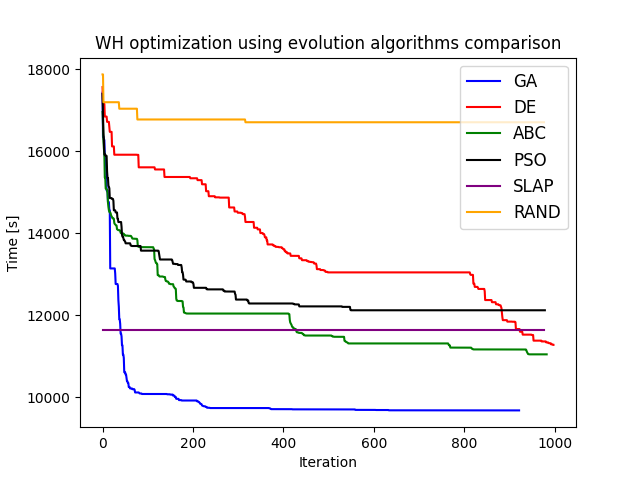
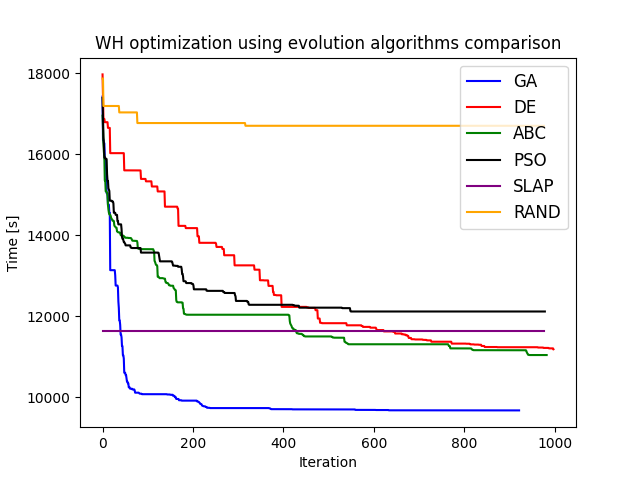
Plot update

diff --git a/utils/plotTool.py b/utils/plotTool.py
@@ -8,7 +8,7 @@ ga = [17422.3, 16349.5, 16349.5, 16272, 16272, 15869, 15869, 15869, 15584.5, 150
 ga_r = range(0, 922)
 ax.plot(ga_r, ga, label='GA', color='blue')
 
-de = [17559.3, 17152.1, 17152.1, 17152.1, 17152.1, 16841.1, 16841.1, 16841.1, 16841.1, 16841.1, 16712.2, 16712.2, 16712.2, 16712.2, 16712.2, 16592.7, 16468.5, 16468.5, 16468.5, 16468.5, 16468.5, 16113.4, 16113.4, 16113.4, 16113.4, 16113.4, 15910.9, 15910.9, 15910.9, 15910.9, 15910.9, 15910.9, 15910.9, 15910.9, 15910.9, 15910.9, 15910.9, 15910.9, 15910.9, 15910.9, 15910.9, 15910.9, 15910.9, 15910.9, 15910.9, 15910.9, 15910.9, 15910.9, 15910.9, 15910.9, 15910.9, 15910.9, 15910.9, 15910.9, 15910.9, 15910.9, 15910.9, 15910.9, 15910.9, 15910.9, 15910.9, 15910.9, 15910.9, 15910.9, 15910.9, 15910.9, 15910.9, 15910.9, 15910.9, 15910.9, 15910.9, 15910.9, 15910.9, 15910.9, 15910.9, 15910.9, 15907.9, 15907.9, 15907.9, 15907.9, 15603.6, 15603.6, 15603.6, 15603.6, 15603.6, 15603.6, 15603.6, 15603.6, 15603.6, 15603.6, 15603.6, 15603.6, 15603.6, 15603.6, 15603.6, 15603.6, 15603.6, 15603.6, 15603.6, 15603.6, 15603.6, 15603.6, 15603.6, 15603.6, 15603.6, 15603.6, 15603.6, 15603.6, 15603.6, 15603.6, 15603.6, 15603.6, 15603.6, 15603.6, 15603.6, 15603.6, 15551.6, 15551.6, 15551.6, 15551.6, 15551.6, 15551.6, 15551.6, 15551.6, 15551.6, 15551.6, 15551.6, 15551.6, 15551.6, 15551.6, 15551.6, 15551.6, 15551.6, 15551.6, 15551.6, 15551.6, 15551.6, 15368, 15368, 15368, 15368, 15368, 15368, 15368, 15368, 15368, 15368, 15368, 15368, 15368, 15368, 15368, 15368, 15368, 15368, 15368, 15368, 15368, 15368, 15368, 15368, 15368, 15368, 15368, 15368, 15368, 15368, 15368, 15368, 15368, 15368, 15368, 15368, 15368, 15368, 15368, 15368, 15368, 15368, 15368, 15368, 15368, 15368, 15368, 15368, 15368, 15368, 15368, 15368, 15368, 15368, 15368, 15368, 15368, 15336.6, 15336.6, 15336.6, 15336.6, 15336.6, 15336.6, 15336.6, 15336.6, 15336.6, 15336.6, 15336.6, 15336.6, 15336.6, 15336.6, 15336.6, 15336.6, 15291.2, 15291.2, 15291.2, 15291.2, 15291.2, 15291.2, 15291.2, 15291.2, 15291.2, 15291.2, 15190.2, 15190.2, 15190.2, 15190.2, 15190.2, 15190.2, 15190.2, 15190.2, 15190.2, 15021.1, 15021.1, 15021.1, 15021.1, 15021.1, 15021.1, 14899, 14899, 14899, 14899, 14899, 14899, 14899, 14899, 14899, 14899, 14899, 14899, 14899, 14899, 14871.9, 14871.9, 14871.9, 14871.9, 14871.9, 14871.9, 14871.9, 14871.9, 14871.9, 14871.9, 14865.2, 14865.2, 14865.2, 14865.2, 14865.2, 14865.2, 14865.2, 14865.2, 14865.2, 14865.2, 14865.2, 14865.2, 14865.2, 14865.2, 14865.2, 14865.2, 14865.2, 14865.2, 14865.2, 14865.2, 14865.2, 14624.9, 14624.9, 14624.9, 14624.9, 14624.9, 14624.9, 14624.9, 14624.9, 14624.9, 14624.9, 14624.9, 14624.9, 14526.7, 14526.7, 14526.7, 14526.7, 14526.7, 14526.7, 14526.7, 14496.7, 14496.7, 14496.7, 14496.7, 14496.7, 14496.7, 14496.7, 14496.7, 14487.4, 14487.4, 14487.4, 14462.2, 14462.2, 14462.2, 14462.2, 14462.2, 14396.6, 14270.8, 14270.8, 14270.8, 14270.8, 14270.8, 14270.8, 14270.8, 14270.8, 14270.8, 14270.8, 14270.8, 14270.8, 14270.8, 14270.8, 14270.8, 14270.8, 14270.8, 14270.8, 14270.8, 14130, 14130, 14130, 14130, 14130, 14130, 14130, 14130, 14090.9, 14090.9, 14090.9, 14090.9, 14090.9, 14090.9, 14000.8, 14000.8, 14000.8, 14000.8, 14000.8, 14000.8, 13977.4, 13977.4, 13977.4, 13952.3, 13897.4, 13897.4, 13897.4, 13897.4, 13823.5, 13823.5, 13723.3, 13723.3, 13723.3, 13723.3, 13723.3, 13723.3, 13723.3, 13723.3, 13723.3, 13723.3, 13723.3, 13723.3, 13701.9, 13701.9, 13701.9, 13682.7, 13682.7, 13682.7, 13665.2, 13665.2, 13662.5, 13662.5, 13662.5, 13662.5, 13662.5, 13654.7, 13654.7, 13654.7, 13654.7, 13654.7, 13654.7, 13654.7, 13632.3, 13632.3, 13617.7, 13605, 13605, 13605, 13557, 13553.9, 13553.9, 13532.2, 13532.2, 13532.2, 13503.9, 13503.9, 13503.9, 13503.9, 13503.9, 13503.9, 13503.9, 13445.8, 13445.8, 13445.8, 13445.8, 13445.8, 13445.8, 13445.8, 13445.8, 13445.8, 13445.8, 13445.8, 13445.8, 13445.8, 13445.8, 13445.8, 13445.8, 13445.8, 13444, 13444, 13385.3, 13385.3, 13385.3, 13385.3, 13385.3, 13381.3, 13339.1, 13339.1, 13339.1, 13339.1, 13339.1, 13339.1, 13339.1, 13339.1, 13339.1, 13339.1, 13339.1, 13320.6, 13320.6, 13320.6, 13303.4, 13303.4, 13303.4, 13303.4, 13295.8, 13295.8, 13295.8, 13295.8, 13290.6, 13290.6, 13290, 13290, 13285, 13256.5, 13256.5, 13256.5, 13256.5, 13256.5, 13216.5, 13120.9, 13120.9, 13120.9, 13120.9, 13120.9, 13120.9, 13120.9, 13120.9, 13099.7, 13099.7, 13099.7, 13099.7, 13099.7, 13099.7, 13099.7, 13090.4, 13090.4, 13090.4, 13079.4, 13055.2, 13055.2, 13055.2, 13055.2, 13055.2, 13041.9, 13041.9, 13041.9, 13041.9, 13041.9, 13041.9, 13041.9, 13041.9, 13041.9, 13041.9, 13041.9, 13041.9, 13041.9, 13041.9, 13041.9, 13041.9, 13041.9, 13041.9, 13041.9, 13041.9, 13041.9, 13041.9, 13041.9, 13041.9, 13041.9, 13041.9, 13041.9, 13041.9, 13041.9, 13041.9, 13041.9, 13041.9, 13041.9, 13041.9, 13041.9, 13041.9, 13041.9, 13041.9, 13041.9, 13041.9, 13041.9, 13041.9, 13041.9, 13041.9, 13041.9, 13041.9, 13041.9, 13041.9, 13041.9, 13041.9, 13041.9, 13041.9, 13041.9, 13041.9, 13041.9, 13041.9, 13041.9, 13041.9, 13041.9, 13041.9, 13041.9, 13041.9, 13041.9, 13041.9, 13041.9, 13041.9, 13041.9, 13041.9, 13041.9, 13041.9, 13041.9, 13041.9, 13041.9, 13041.9, 13041.9, 13041.9, 13041.9, 13041.9, 13041.9, 13041.9, 13041.9, 13041.9, 13041.9, 13041.9, 13041.9, 13041.9, 13041.9, 13041.9, 13041.9, 13041.9, 13041.9, 13041.9, 13041.9, 13041.9, 13041.9, 13041.9, 13041.9, 13041.9, 13041.9, 13041.9, 13041.9, 13041.9, 13041.9, 13041.9, 13041.9, 13041.9, 13041.9, 13041.9, 13041.9, 13041.9, 13041.9, 13041.9, 13041.9, 13041.9, 13041.9, 13041.9, 13041.9, 13041.9, 13041.9, 13041.9, 13041.9, 13041.9, 13041.9, 13041.9, 13041.9, 13041.9, 13041.9, 13041.9, 13041.9, 13041.9, 13041.9, 13041.9, 13041.9, 13041.9, 13041.9, 13041.9, 13041.9, 13041.9, 13041.9, 13041.9, 13041.9, 13041.9, 13041.9, 13041.9, 13041.9, 13041.9, 13041.9, 13041.9, 13041.9, 13041.9, 13041.9, 13041.9, 13041.9, 13041.9, 13041.9, 13041.9, 13041.9, 13041.9, 13041.9, 13041.9, 13041.9, 13041.9, 13041.9, 13041.9, 13041.9, 13041.9, 13041.9, 13041.9, 13041.9, 13041.9, 13041.9, 13041.9, 13041.9, 13041.9, 13041.9, 13041.9, 13041.9, 13041.9, 13041.9, 13041.9, 13041.9, 13041.9, 13041.9, 13041.9, 13041.9, 13041.9, 13041.9, 13041.9, 13041.9, 13041.9, 13041.9, 13041.9, 13041.9, 13041.9, 13041.9, 13041.9, 13041.9, 13041.9, 13041.9, 13041.9, 13041.9, 13041.9, 13041.9, 13041.9, 13041.9, 13041.9, 13041.9, 13041.9, 13041.9, 13041.9, 13041.9, 13041.9, 13041.9, 13041.9, 13041.9, 13041.9, 13041.9, 13041.9, 13041.9, 13041.9, 13041.9, 13041.9, 13041.9, 13041.9, 13041.9, 13041.9, 13041.9, 13041.9, 13041.9, 13041.9, 13041.9, 13041.9, 13041.9, 13041.9, 13041.9, 13041.9, 13041.9, 13041.9, 13041.9, 13041.9, 13041.9, 13041.9, 13041.9, 13041.9, 13041.9, 13041.9, 13041.9, 13041.9, 13041.9, 13041.9, 13041.9, 13041.9, 13041.9, 13041.9, 13041.9, 13041.9, 13041.9, 13041.9, 13041.9, 13041.9, 13041.9, 13041.9, 13041.9, 13041.9, 13041.9, 13041.9, 13041.9, 13041.9, 13041.9, 13041.9, 13041.9, 13041.9, 13041.9, 13041.9, 13041.9, 13041.9, 13041.9, 13041.9, 13041.9, 13041.9, 13041.9, 13041.9, 13041.9, 13041.9, 13041.9, 13041.9, 13041.9, 13041.9, 13041.9, 13041.9, 13041.9, 13041.9, 13041.9, 13041.9, 13041.9, 13041.9, 13041.9, 13041.9, 13041.9, 13041.9, 13041.9, 13041.9, 13041.9, 13041.9, 13041.9, 13041.9, 13041.9, 13041.9, 13041.9, 13041.9, 13041.9, 13041.9, 13041.9, 13041.9, 13041.9, 12994.2, 12981.3, 12981.3, 12981.3, 12981.3, 12981.3, 12981.3, 12766.8, 12766.8, 12766.8, 12688.5, 12688.5, 12688.5, 12688.5, 12688.5, 12688.5, 12688.5, 12667.8, 12638.3, 12638.3, 12638.3, 12638.3, 12638.3, 12638.3, 12638.3, 12638.3, 12638.3, 12638.3, 12638.3, 12638.3, 12638.3, 12638.3, 12581.8, 12367.4, 12367.4, 12367.4, 12367.4, 12367.4, 12367.4, 12367.4, 12367.4, 12367.4, 12367.4, 12367.4, 12367.4, 12367.4, 12367.4, 12367.4, 12315.1, 12315.1, 12315.1, 12315.1, 12315.1, 12315.1, 12315.1, 12315.1, 12315.1, 12264.5, 12264.5, 12264.5, 12264.5, 12264.5, 12264.5, 12245, 12245, 12245, 12238.2, 12238.2, 12206.4, 12172.3, 12064.7, 11951.3, 11877.6, 11877.6, 11877.6, 11877.6, 11877.6, 11877.6, 11877.6, 11877.6, 11877.6, 11877.6, 11841.7, 11841.7, 11841.7, 11841.7, 11841.7, 11841.7, 11841.7, 11841.7, 11841.7, 11841.7, 11841.7, 11838.6, 11838.6, 11838.6, 11838.6, 11838.6, 11838.6, 11838.6, 11826.8, 11660.5, 11660.5, 11660.5, 11660.5, 11660.5, 11660.5, 11660.5, 11660.5, 11660.5, 11594.7, 11594.7, 11594.7, 11594.7, 11594.7, 11594.7, 11524.2, 11524.2, 11524.2, 11524.2, 11524.2, 11524.2, 11524.2, 11524.2, 11524.2, 11524.2, 11524.2, 11524.2, 11524.2, 11524.2, 11524.2, 11524.2, 11524.2, 11524.2, 11524.2, 11524.2, 11515.4, 11515.4, 11515.4, 11515.4, 11377.8, 11377.8, 11377.8, 11377.8, 11377.8, 11377.8, 11377.8, 11377.8, 11377.8, 11377.8, 11377.8, 11377.8, 11377.8, 11377.8, 11377.8, 11377.8, 11377.8, 11377.8, 11358.3, 11358.3, 11358.3, 11358.3, 11358.3, 11358.3, 11358.3, 11358.3, 11358.3, 11358.3, 11334.9, 11334.9, 11334.9, 11334.9, 11334.9, 11318.7, 11318.7, 11313.5, 11313.5, 11313.5, 11313.5, 11287.9, 11287.9, 11287.9, 11287.9, 11274.4, 11274.4]
+de = [17970.8, 17416.9, 16870.6, 16870.6, 16870.6, 16791.3, 16791.3, 16791.3, 16791.3, 16791.3, 16791.3, 16791.3, 16650.4, 16650.4, 16650.4, 16650.4, 16650.4, 16026.8, 16026.8, 16026.8, 16026.8, 16026.8, 16026.8, 16026.8, 16026.8, 16026.8, 16026.8, 16026.8, 16026.8, 16026.8, 16026.8, 16026.8, 16026.8, 16026.8, 16026.8, 16026.8, 16026.8, 16026.8, 16026.8, 16026.8, 16026.8, 16026.8, 16026.8, 16026.8, 16026.8, 16026.8, 16026.8, 16026.8, 15602.2, 15602.2, 15602.2, 15602.2, 15602.2, 15602.2, 15602.2, 15602.2, 15602.2, 15602.2, 15602.2, 15602.2, 15602.2, 15602.2, 15602.2, 15602.2, 15602.2, 15602.2, 15602.2, 15602.2, 15602.2, 15602.2, 15602.2, 15602.2, 15602.2, 15602.2, 15602.2, 15602.2, 15602.2, 15602.2, 15602.2, 15602.2, 15602.2, 15602.2, 15600.4, 15600.4, 15600.4, 15390.8, 15390.8, 15390.8, 15390.8, 15390.8, 15390.8, 15390.8, 15390.8, 15390.8, 15390.8, 15390.8, 15331, 15331, 15331, 15331, 15331, 15331, 15331, 15331, 15331, 15331, 15331, 15331, 15331, 15204, 15204, 15204, 15204, 15204, 15204, 15204, 15204, 15204, 15204, 15204, 15204, 15204, 15081.8, 15081.8, 15081.8, 15081.8, 15081.8, 15081.8, 15081.8, 15081.8, 15081.8, 15081.8, 15081.8, 15081.8, 15081.8, 15081.8, 15081.8, 15081.8, 14705.4, 14705.4, 14705.4, 14705.4, 14705.4, 14705.4, 14705.4, 14705.4, 14705.4, 14705.4, 14705.4, 14705.4, 14705.4, 14705.4, 14705.4, 14705.4, 14705.4, 14705.4, 14705.4, 14705.4, 14705.4, 14705.4, 14705.4, 14705.4, 14705.4, 14705.4, 14705.4, 14705.4, 14654.9, 14654.9, 14232, 14232, 14232, 14232, 14232, 14232, 14232, 14232, 14232, 14232, 14232, 14232, 14232, 14232, 14232, 14232, 14176.5, 14176.5, 14176.5, 14176.5, 14176.5, 14176.5, 14176.5, 14176.5, 14176.5, 14176.5, 14176.5, 14176.5, 14176.5, 14176.5, 14176.5, 14176.5, 14176.5, 14176.5, 14176.5, 14176.5, 14176.5, 14176.5, 14176.5, 14176.5, 14176.5, 14176.5, 13974.4, 13974.4, 13974.4, 13974.4, 13813.6, 13813.6, 13813.6, 13813.6, 13813.6, 13813.6, 13813.6, 13813.6, 13813.6, 13813.6, 13813.6, 13813.6, 13813.6, 13813.6, 13813.6, 13813.6, 13813.6, 13813.6, 13813.6, 13813.6, 13813.6, 13813.6, 13813.6, 13813.6, 13813.6, 13813.6, 13813.6, 13813.6, 13813.6, 13813.6, 13813.6, 13813.6, 13813.6, 13813.6, 13813.6, 13813.6, 13813.6, 13791.1, 13711.9, 13711.9, 13711.9, 13711.9, 13711.9, 13711.9, 13711.9, 13711.9, 13711.9, 13711.9, 13711.9, 13711.9, 13711.9, 13662, 13662, 13662, 13662, 13506.7, 13506.7, 13506.7, 13506.7, 13506.7, 13506.7, 13506.7, 13506.7, 13506.7, 13506.7, 13506.7, 13506.7, 13506.7, 13506.7, 13506.7, 13506.7, 13506.7, 13506.7, 13506.7, 13506.7, 13506.7, 13506.7, 13506.7, 13257.1, 13257.1, 13257.1, 13257.1, 13257.1, 13257.1, 13257.1, 13257.1, 13257.1, 13257.1, 13257.1, 13257.1, 13257.1, 13257.1, 13257.1, 13257.1, 13257.1, 13257.1, 13257.1, 13257.1, 13257.1, 13257.1, 13257.1, 13257.1, 13257.1, 13257.1, 13257.1, 13257.1, 13257.1, 13257.1, 13257.1, 13257.1, 13257.1, 13257.1, 13257.1, 13257.1, 13257.1, 13257.1, 13257.1, 13257.1, 13257.1, 13257.1, 13257.1, 13257.1, 13150.4, 13150.4, 13150.4, 13150.4, 13150.4, 13150.4, 13150.4, 13150.4, 13150.4, 13150.4, 13150.4, 13150.4, 12889.4, 12889.4, 12889.4, 12889.4, 12889.4, 12889.4, 12889.4, 12889.4, 12889.4, 12885.9, 12885.9, 12885.9, 12885.9, 12885.9, 12885.9, 12885.9, 12885.9, 12885.9, 12885.9, 12750.3, 12750.3, 12750.3, 12750.3, 12750.3, 12750.3, 12750.3, 12750.3, 12750.3, 12750.3, 12604.6, 12604.6, 12526.1, 12526.1, 12526.1, 12526.1, 12526.1, 12518.6, 12518.6, 12518.6, 12518.6, 12518.6, 12518.6, 12518.6, 12518.6, 12518.6, 12518.6, 12518.6, 12518.6, 12232.1, 12232.1, 12232.1, 12232.1, 12232.1, 12232.1, 12232.1, 12232.1, 12232.1, 12232.1, 12232.1, 12232.1, 12232.1, 12232.1, 12232.1, 12232.1, 12232.1, 12232.1, 12232.1, 12232.1, 12232.1, 12232.1, 12232.1, 12232.1, 12232.1, 12232.1, 12232.1, 12232.1, 12232.1, 12232.1, 12232.1, 12232.1, 12232.1, 12232.1, 12232.1, 12232.1, 12232.1, 12232.1, 12232.1, 12232.1, 12232.1, 12232.1, 12232.1, 12232.1, 12232.1, 12232.1, 12232.1, 12232.1, 12232.1, 12232.1, 12232.1, 12232.1, 12232.1, 12232.1, 12232.1, 12232.1, 12219, 12219, 12219, 12219, 12206.1, 12206.1, 12206.1, 12206.1, 12206.1, 12206.1, 12206.1, 12206.1, 12206.1, 12206.1, 12206.1, 12206.1, 12206.1, 12206.1, 12206.1, 12150.1, 12150.1, 12150.1, 12150.1, 12150.1, 11944.9, 11944.9, 11944.9, 11944.9, 11944.9, 11839.5, 11839.5, 11839.5, 11839.5, 11829.4, 11829.4, 11829.4, 11829.4, 11829.4, 11829.4, 11829.4, 11829.4, 11829.4, 11829.4, 11829.4, 11829.4, 11829.4, 11829.4, 11829.4, 11829.4, 11829.4, 11829.4, 11829.4, 11829.4, 11829.4, 11829.4, 11829.4, 11829.4, 11829.4, 11829.4, 11829.4, 11829.4, 11829.4, 11829.4, 11829.4, 11829.4, 11829.4, 11829.4, 11829.4, 11829.4, 11829.4, 11829.4, 11829.4, 11829.4, 11829.4, 11829.4, 11829.4, 11829.4, 11829.4, 11829.4, 11829.4, 11829.4, 11829.4, 11829.4, 11829.4, 11829.4, 11829.4, 11829.4, 11829.4, 11777.4, 11777.4, 11777.4, 11777.4, 11777.4, 11777.4, 11777.4, 11777.4, 11777.4, 11777.4, 11777.4, 11777.4, 11777.4, 11777.4, 11777.4, 11777.4, 11777.4, 11777.4, 11777.4, 11777.4, 11777.4, 11777.4, 11777.4, 11777.4, 11777.4, 11777.4, 11777.4, 11777.4, 11777.4, 11777.4, 11777.4, 11777.4, 11777.4, 11759.6, 11759.6, 11757.9, 11738.2, 11738.2, 11738.2, 11738.2, 11738.2, 11738.2, 11738.2, 11738.2, 11738.2, 11738.2, 11738.2, 11738.2, 11738.2, 11738.2, 11738.2, 11738.2, 11718.9, 11718.9, 11718.9, 11718.9, 11718.9, 11718.9, 11718.9, 11718.9, 11718.9, 11718.9, 11718.9, 11718.9, 11718.9, 11701.4, 11660, 11660, 11660, 11660, 11660, 11660, 11660, 11660, 11660, 11660, 11660, 11660, 11660, 11660, 11660, 11660, 11627.2, 11627.2, 11627.2, 11627.2, 11627.2, 11627.2, 11627.2, 11627.2, 11627.2, 11627.2, 11627.2, 11627.2, 11627.2, 11627.2, 11627.2, 11627.2, 11627.2, 11627.2, 11627.2, 11627.2, 11627.2, 11615.2, 11615.2, 11615.2, 11615.2, 11574.8, 11574.8, 11574.8, 11574.8, 11574.8, 11574.8, 11574.8, 11574.8, 11574.8, 11574.8, 11574.8, 11574.8, 11574.8, 11574.8, 11574.8, 11556.2, 11556.2, 11556.2, 11556.2, 11556.2, 11547, 11547, 11547, 11547, 11529.7, 11529.7, 11529.7, 11529.7, 11512.3, 11512.3, 11465.1, 11465.1, 11465.1, 11465.1, 11465.1, 11465.1, 11434.5, 11434.5, 11434.5, 11432.8, 11432.8, 11432.8, 11432.8, 11432.8, 11427.8, 11427.8, 11427.8, 11427.8, 11427.8, 11427.8, 11427.8, 11427.8, 11427.8, 11427.8, 11427.8, 11427.8, 11427.8, 11427.8, 11427.8, 11427.8, 11427.8, 11420.1, 11418.9, 11418.9, 11417.4, 11417.4, 11417.4, 11417.4, 11417.4, 11417.4, 11405.6, 11405.6, 11405.6, 11405.6, 11405.6, 11405.6, 11405.6, 11405.6, 11405.6, 11405.6, 11372.7, 11372.7, 11372.7, 11372.7, 11372.7, 11372.7, 11372.7, 11372.7, 11372.7, 11372.7, 11372.7, 11372.7, 11372.7, 11372.7, 11372.7, 11372.7, 11372.7, 11372.7, 11372.7, 11372.7, 11372.7, 11372.7, 11372.7, 11372.7, 11372.7, 11372.7, 11372.7, 11372.7, 11372.7, 11372.7, 11372.7, 11372.7, 11372.7, 11372.7, 11372.7, 11372.7, 11372.7, 11372.7, 11372.7, 11372.7, 11372.7, 11372.7, 11372.7, 11372.7, 11372, 11325.8, 11325.8, 11325.8, 11325.8, 11325.8, 11325.8, 11325.8, 11325.8, 11325.8, 11325.8, 11325.8, 11325.8, 11325.8, 11325.8, 11325.8, 11325.8, 11325.8, 11325.8, 11325.8, 11325.8, 11325.8, 11325.8, 11325.8, 11325.8, 11325.8, 11325.8, 11325.8, 11325.8, 11325.8, 11325.8, 11325.8, 11325.8, 11322.5, 11322.5, 11322.5, 11322.3, 11322.3, 11322.3, 11322, 11322, 11322, 11306.9, 11306.9, 11306.9, 11306.9, 11306.9, 11306.9, 11306.9, 11306.9, 11306.9, 11301.4, 11301.4, 11301.4, 11301.4, 11301.4, 11301.4, 11301.4, 11301.4, 11301.4, 11301.4, 11296.9, 11296.9, 11296.9, 11296.9, 11296.9, 11296.9, 11266.8, 11266.8, 11266.8, 11266.8, 11266.8, 11266.8, 11266.8, 11241.6, 11241.6, 11241.6, 11241.6, 11241.6, 11241.6, 11241.6, 11241.6, 11241.6, 11241.6, 11241.6, 11241.6, 11241.6, 11241.6, 11241.6, 11241.6, 11241.6, 11241.6, 11241.6, 11241.6, 11241.6, 11241.6, 11241.6, 11241.6, 11241.6, 11241.6, 11241.6, 11241.6, 11236.8, 11236.8, 11236.8, 11236.8, 11236.8, 11236.8, 11236.8, 11236.8, 11236.8, 11236.8, 11236.8, 11236.8, 11236.8, 11236.8, 11236.8, 11236.8, 11236.8, 11236.8, 11236.8, 11236.8, 11236.8, 11236.8, 11236.8, 11236.8, 11236.8, 11236.8, 11236.8, 11236.8, 11236.8, 11236.8, 11236.8, 11236.8, 11236.8, 11236.8, 11236.8, 11236.8, 11236.8, 11236.8, 11236.8, 11236.8, 11236.8, 11236.8, 11236.8, 11236.8, 11236.8, 11236.8, 11236.8, 11236.8, 11236.8, 11236.8, 11236.8, 11236.8, 11236.8, 11236.8, 11236.8, 11236.8, 11236.8, 11236.8, 11236.8, 11236.8, 11236.8, 11236.8, 11236.8, 11236.8, 11236.8, 11236.8, 11236.8, 11236.8, 11236.8, 11236.8, 11236.8, 11236.8, 11236.8, 11236.8, 11236.8, 11236.8, 11236.8, 11236.8, 11236.8, 11236.8, 11236.8, 11236.8, 11236.8, 11236.4, 11236.4, 11236.4, 11236.4, 11236.4, 11236.4, 11236.4, 11228.5, 11228.5, 11228.5, 11228.5, 11228.5, 11228.5, 11228.5, 11228.5, 11228.5, 11228.5, 11228.3, 11228.3, 11219.3, 11219.3, 11219.3, 11219.3, 11219.3, 11219.3, 11219.3, 11219.3, 11219.3, 11219.3, 11219.3, 11219.3, 11208, 11208, 11208, 11208, 11208, 11208, 11208, 11208, 11208, 11208, 11185.9]
 de_r = range(0, 998)
 ax.plot(de_r, de, label='DE', color='red')
 
